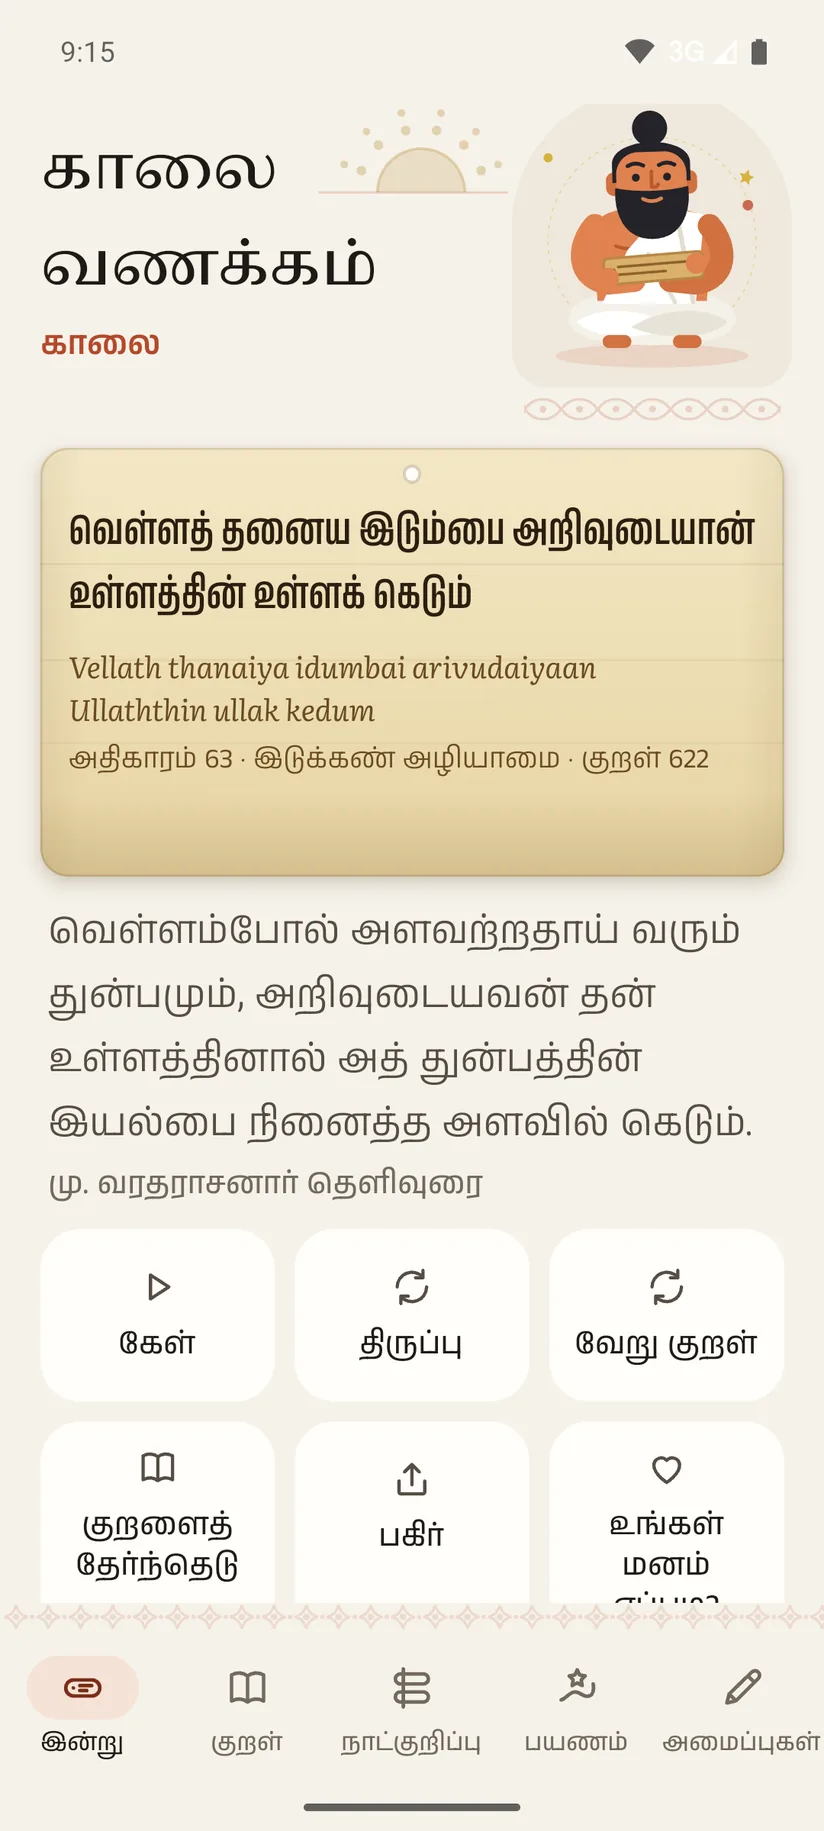
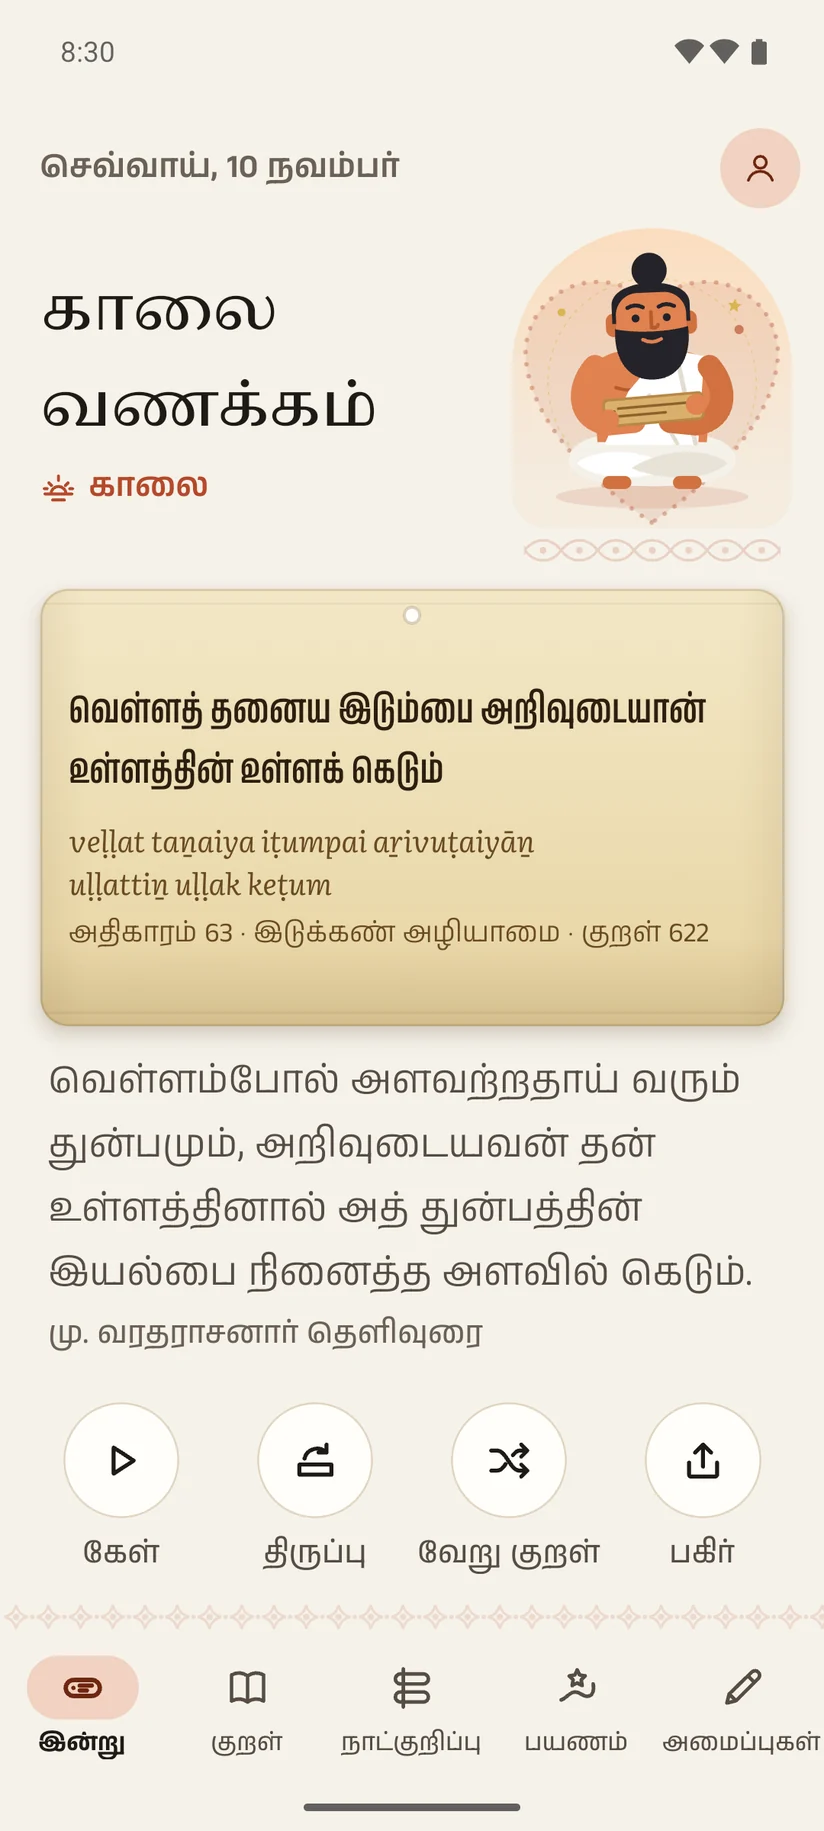
Kural Heart 1.0.3: new screens; Listen uses the phone's Tamil voice

diff --git a/index.html b/index.html
@@ -4,7 +4,7 @@
   <meta charset="utf-8">
   <meta name="viewport" content="width=device-width, initial-scale=1">
   <title>Kural Heart · A private journal with Thiruvalluvar, for Android</title>
-  <meta name="description" content="Kural Heart is a free Android journal built on the Thirukkural. One couplet a day in Tamil, read aloud in a natural Tamil voice, with Aiyar's and Pope's English and Mu. Varadarasanar's Tamil explanation, a question to write about, and a private page that stays on your phone. No ads, no account.">
+  <meta name="description" content="Kural Heart is a free Android journal built on the Thirukkural. One couplet a day in Tamil, read aloud in your phone's Tamil voice, with Aiyar's and Pope's English and Mu. Varadarasanar's Tamil explanation, a question to write about, and a private page that stays on your phone. No ads, no account.">
   <meta name="theme-color" content="#F6F2EA">
   <meta property="og:title" content="Kural Heart">
   <meta property="og:description" content="A private journal with Thiruvalluvar. Free, no ads.">
@@ -40,7 +40,7 @@
       </p>
       <ul class="facts" data-reveal style="--i:3"><li>Free, no ads</li><li>No account</li><li>Tamil and English</li></ul>
     </div>
-    <figure class="hero-media"><div class="phone" data-reveal style="--i:2"><img src="assets/screens/today.webp" width="824" height="1831" alt="Today: Good morning, with the morning sun drawn behind the greeting, Valluvar reading in his arch, Kural 622 on its palm leaf with its pronunciation, and Aiyar's English beneath" fetchpriority="high"></div></figure>
+    <figure class="hero-media"><div class="phone" data-reveal style="--i:2"><img src="assets/screens/today.webp" width="824" height="1831" alt="Today: Good morning, Valluvar reading in his arch with a soft heart behind him and the dawn sky, Kural 622 on its palm leaf with its pronunciation, Aiyar's English, and round buttons to listen, turn the leaf, get another couplet or share" fetchpriority="high"></div></figure>
   </section>
 
   <!-- What it does -->
@@ -66,14 +66,14 @@
       <article class="row" aria-labelledby="f2">
         <div class="row-text">
           <h3 id="f2" class="h3" data-reveal>All 1,330, to read and to hear</h3>
-          <p data-reveal style="--i:1">Browse the three books by chapter, search by number or by a word in Tamil or English, and save the couplets you love. Every couplet is recorded in a natural Tamil voice, so Listen sounds the same on any phone, even offline.</p>
+          <p data-reveal style="--i:1">Browse the three books by chapter, search by number or by a word in Tamil or English, and save the couplets you love. Listen reads each one in your phone's own Tamil voice, then the English if you like.</p>
           <ul class="ticks" data-reveal style="--i:2">
             <li>With Tamil first, Mu. Varadarasanar's Tamil explanation under every couplet</li>
             <li>The Tamil text checked line by line against two other sources</li>
             <li>Filters for saved, written about, and not read yet</li>
           </ul>
         </div>
-        <figure class="row-media"><div class="phone" data-reveal><img src="assets/screens/tamil.webp" width="824" height="1831" alt="Today in Tamil: காலை வணக்கம் under the morning sun, Kural 622 on its leaf, and Mu. Varadarasanar's Tamil explanation beneath it" loading="lazy" decoding="async"></div></figure>
+        <figure class="row-media"><div class="phone" data-reveal><img src="assets/screens/tamil.webp" width="824" height="1831" alt="Today in Tamil: காலை வணக்கம், Kural 622 on its leaf, and Mu. Varadarasanar's Tamil explanation beneath it" loading="lazy" decoding="async"></div></figure>
       </article>
 
       <article class="row" aria-labelledby="f5">
@@ -161,7 +161,7 @@
         <details name="faq"><summary>Where are my pages kept?</summary><p>On your phone, encrypted. If you turn on backup or Google Drive sync, a copy goes there too, locked with your passphrase.</p></details>
         <details name="faq"><summary>Why does it ask to sign in with Google?</summary><p>Only if you turn on Drive sync. Kural Heart asks for one thing: its own hidden folder in your Drive, where it keeps your locked backup. It can't see or change your other files.</p></details>
         <details name="faq"><summary>Which translations are there?</summary><p>V. V. S. Aiyar's English (1916) and G. U. Pope's verse and prose (1886), both in the public domain, and in Tamil, Mu. Varadarasanar's Thirukkural Thelivurai (1969), which the Government of Tamil Nadu has made free for everyone.</p></details>
-        <details name="faq"><summary>Whose is the voice that reads the couplets?</summary><p>An open Tamil voice (Piper's "rasa female", trained on AI4Bharat's Rasa recordings), used once to record all 1,330 couplets. The recordings ship inside the app, so Listen works without the internet. You can choose your phone's own voice instead.</p></details>
+        <details name="faq"><summary>Whose is the voice that reads the couplets?</summary><p>Your phone's own: Listen uses Android's text-to-speech, which on most phones has a natural Tamil voice from Google. Choose among the voices on your phone in Settings, and add more in Android's voice settings.</p></details>
         <details name="faq"><summary>Can I write in Tamil?</summary><p>Yes. Kural Heart works with any Tamil keyboard on your phone, and can lead in Tamil throughout.</p></details>
         <details name="faq"><summary>What if I forget my passphrase?</summary><p>Nobody can open the backup without it, not even me. The pages on your phone are still there; set up backup again with a new passphrase.</p></details>
         <details name="faq"><summary>How do updates arrive?</summary><p>Smaller improvements arrive inside the app by themselves. For new versions, download the new APK over the old one; your pages stay.</p></details>
@@ -181,7 +181,7 @@
       <nav aria-label="Also by Inigo"><h2>Also by Inigo</h2><a class="to-app" href="https://inigo-code.github.io/prompt-heart-site/"><img src="assets/prompt-heart.png" width="24" height="24" alt="">Prompt Heart</a><a class="to-app" href="https://inigo-code.github.io/watch-heart-site/"><img src="assets/watch-heart.png" width="24" height="24" alt="">Watch Heart</a><a class="to-app" href="https://inigo-code.github.io/frame-heart-site/"><img src="assets/frame-heart.svg" width="24" height="24" alt="">Frame Heart</a><a class="to-app" href="https://inigo-code.github.io/still-heart-site/"><img src="assets/still-heart.svg" width="24" height="24" alt="">Still Heart</a><a class="to-app" href="https://inigo-code.github.io/rush-heart-site/"><img src="assets/rush-heart.svg" width="24" height="24" alt="">Rush Heart</a><a class="to-home" href="https://inigo-code.github.io/"><img src="assets/heart-apps.svg" width="20" height="20" alt="">Heart Apps</a></nav>
       <nav aria-label="Contact"><h2>Contact</h2><a href="mailto:inigo@tosstheworld.org?subject=Kural%20Heart">inigo@tosstheworld.org</a></nav>
     </div>
-    <div class="foot-last"><p>© 2026 Inigo. Free, with no ads. Couplets from Project Madurai; English from Standard Ebooks and Project Madurai; Tamil explanation from Tamil Wikisource; the voice from Piper and AI4Bharat (CC BY 4.0).</p><a href="#top">Back to the top</a></div>
+    <div class="foot-last"><p>© 2026 Inigo. Free, with no ads. Couplets from Project Madurai; English from Standard Ebooks and Project Madurai; Tamil explanation from Tamil Wikisource.</p><a href="#top">Back to the top</a></div>
   </div>
 </footer>
 
